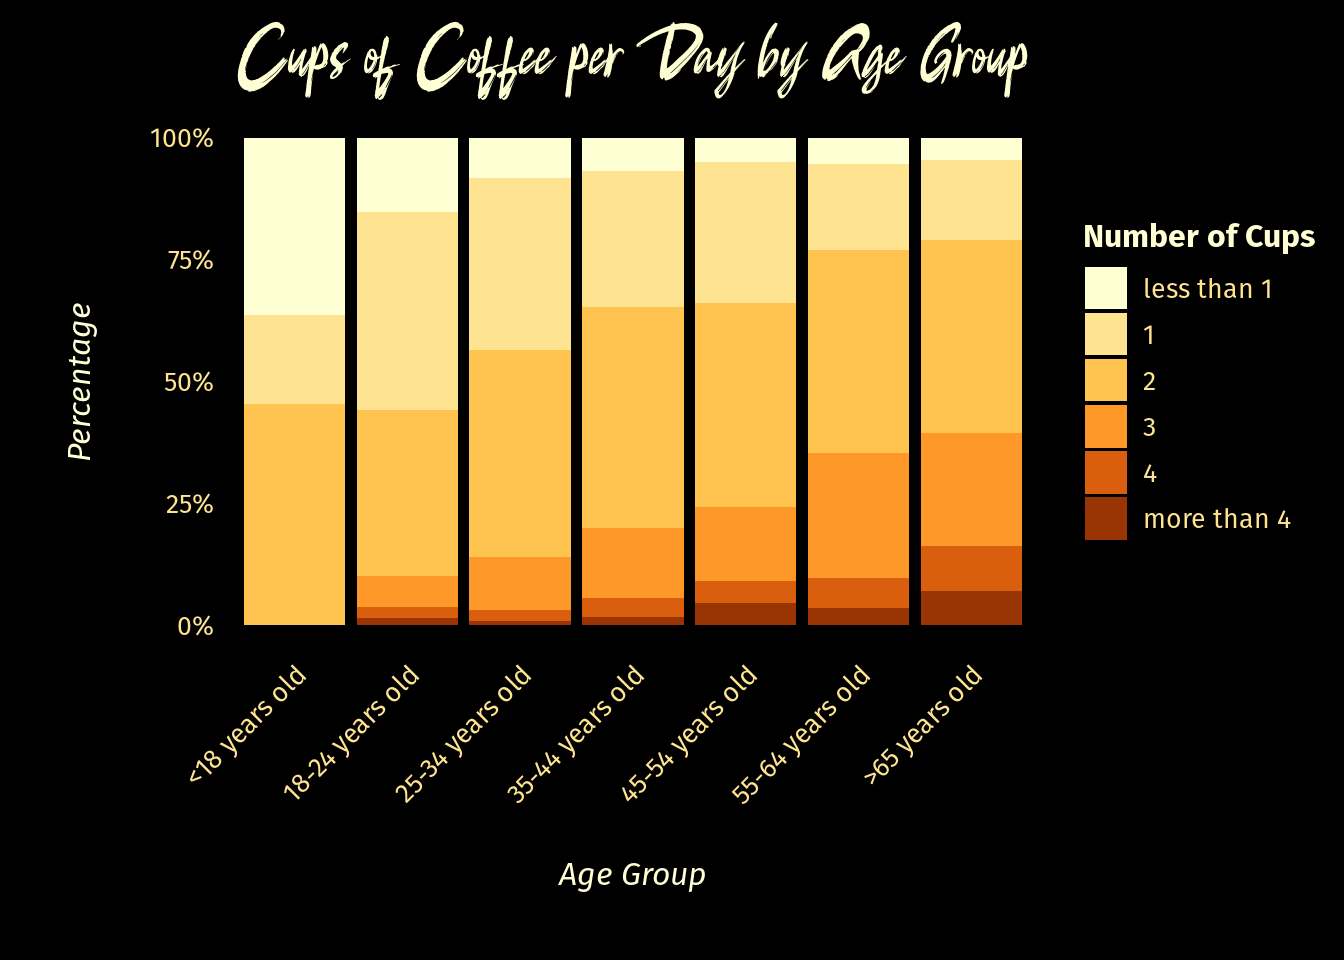
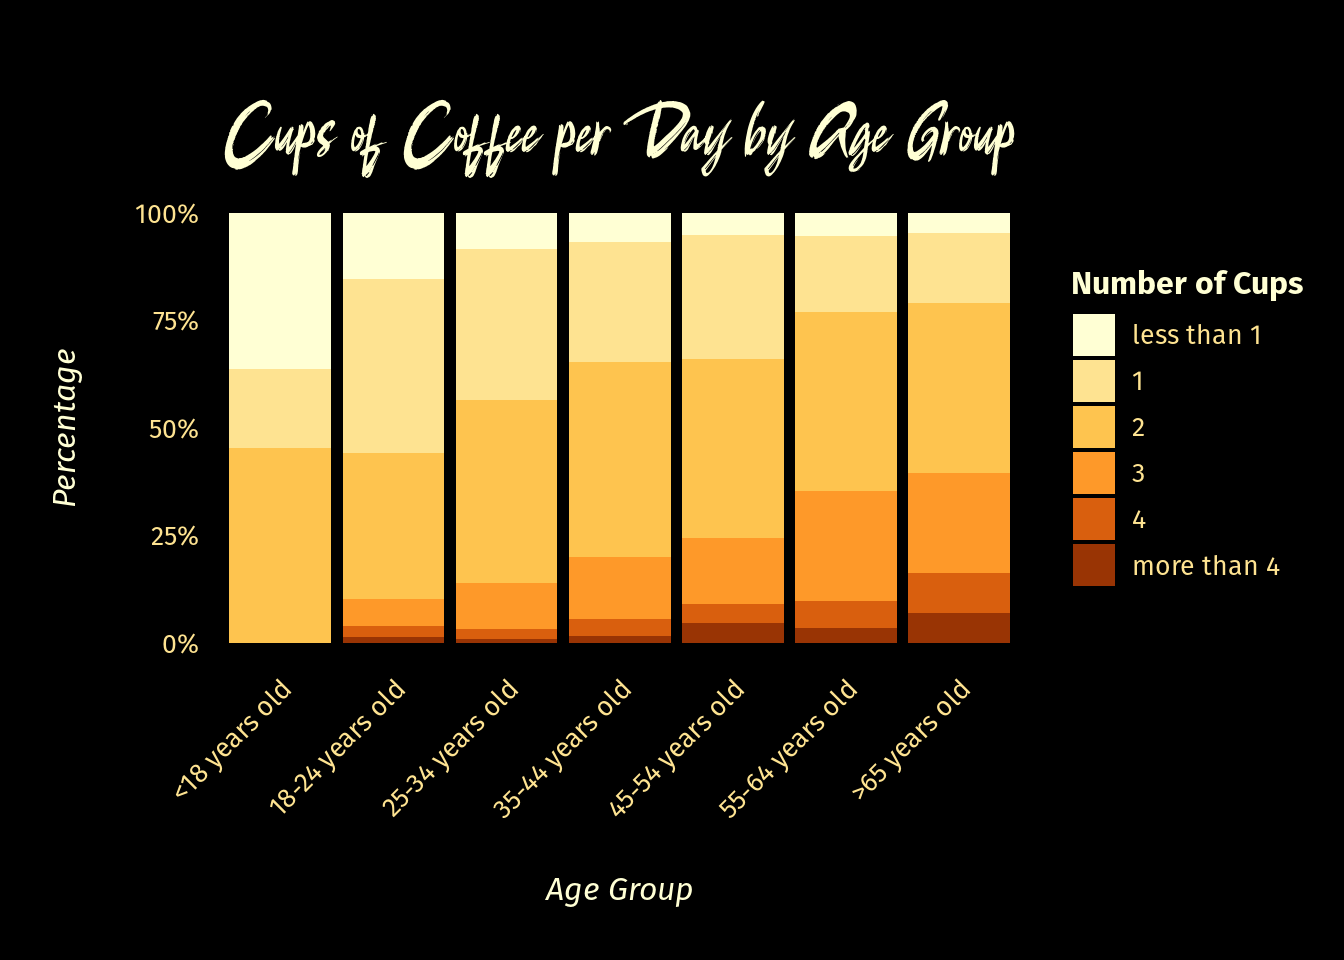
Built site for gh-pages

diff --git a/tidytuesday2024/tidy20.html b/tidytuesday2024/tidy20.html
@@ -250,10 +250,11 @@ pre > code.sourceCode > span > a:first-child::before { text-decoration: underlin
 <span id="cb2-12"><a href="#cb2-12" aria-hidden="true" tabindex="-1"></a>    <span class="at">plot.background =</span> <span class="fu">element_rect</span>(<span class="at">fill =</span> <span class="st">"black"</span>, <span class="at">color =</span> <span class="cn">NA</span>),</span>
 <span id="cb2-13"><a href="#cb2-13" aria-hidden="true" tabindex="-1"></a>    <span class="at">panel.background =</span> <span class="fu">element_rect</span>(<span class="at">fill =</span> <span class="st">"black"</span>, <span class="at">color =</span> <span class="cn">NA</span>),</span>
 <span id="cb2-14"><a href="#cb2-14" aria-hidden="true" tabindex="-1"></a>    <span class="at">panel.grid.major =</span> <span class="fu">element_blank</span>(),</span>
-<span id="cb2-15"><a href="#cb2-15" aria-hidden="true" tabindex="-1"></a>    <span class="at">panel.grid.minor =</span> <span class="fu">element_blank</span>()</span>
-<span id="cb2-16"><a href="#cb2-16" aria-hidden="true" tabindex="-1"></a>  )</span>
-<span id="cb2-17"><a href="#cb2-17" aria-hidden="true" tabindex="-1"></a></span>
-<span id="cb2-18"><a href="#cb2-18" aria-hidden="true" tabindex="-1"></a><span class="fu">theme_set</span>(coffee_theme)</span></code><button title="Copy to Clipboard" class="code-copy-button"><i class="bi"></i></button></pre></div>
+<span id="cb2-15"><a href="#cb2-15" aria-hidden="true" tabindex="-1"></a>    <span class="at">panel.grid.minor =</span> <span class="fu">element_blank</span>(),</span>
+<span id="cb2-16"><a href="#cb2-16" aria-hidden="true" tabindex="-1"></a>    <span class="at">plot.margin =</span> <span class="fu">margin</span>(<span class="at">t =</span> <span class="dv">35</span>, <span class="at">r =</span> <span class="dv">10</span>)</span>
+<span id="cb2-17"><a href="#cb2-17" aria-hidden="true" tabindex="-1"></a>  )</span>
+<span id="cb2-18"><a href="#cb2-18" aria-hidden="true" tabindex="-1"></a></span>
+<span id="cb2-19"><a href="#cb2-19" aria-hidden="true" tabindex="-1"></a><span class="fu">theme_set</span>(coffee_theme)</span></code><button title="Copy to Clipboard" class="code-copy-button"><i class="bi"></i></button></pre></div>
 </div>
 </section>
 <section id="extract" class="level3">
@@ -577,7 +578,7 @@ pre > code.sourceCode > span > a:first-child::before { text-decoration: underlin
 </section>
 <section id="responsible-analysis" class="level3">
 <h3 class="anchored" data-anchor-id="responsible-analysis">Responsible Analysis</h3>
-<p>Let’s remind ourselves that we left sound analysis practices behind at this point. We are simply having fun. These are out-liers and ZERO conclusions can be drawn from digging into their data. So lets just stop here.</p>
+<p>Let’s remind ourselves that we left sound analysis practices behind at this point. We are simply having fun. These are outliers and ZERO conclusions can be drawn from digging into their data. So lets just stop here.</p>
 
 
 </section>
